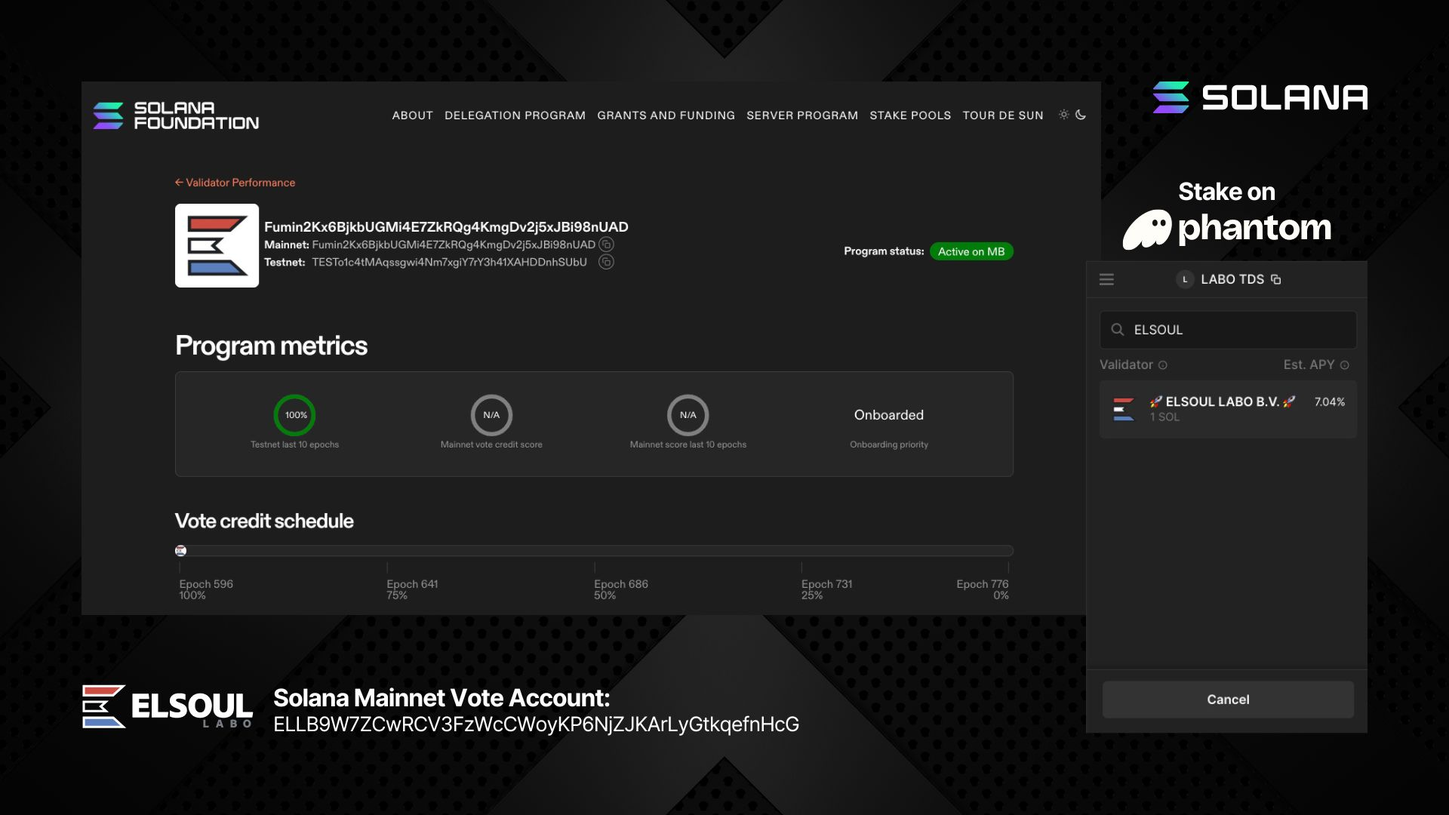
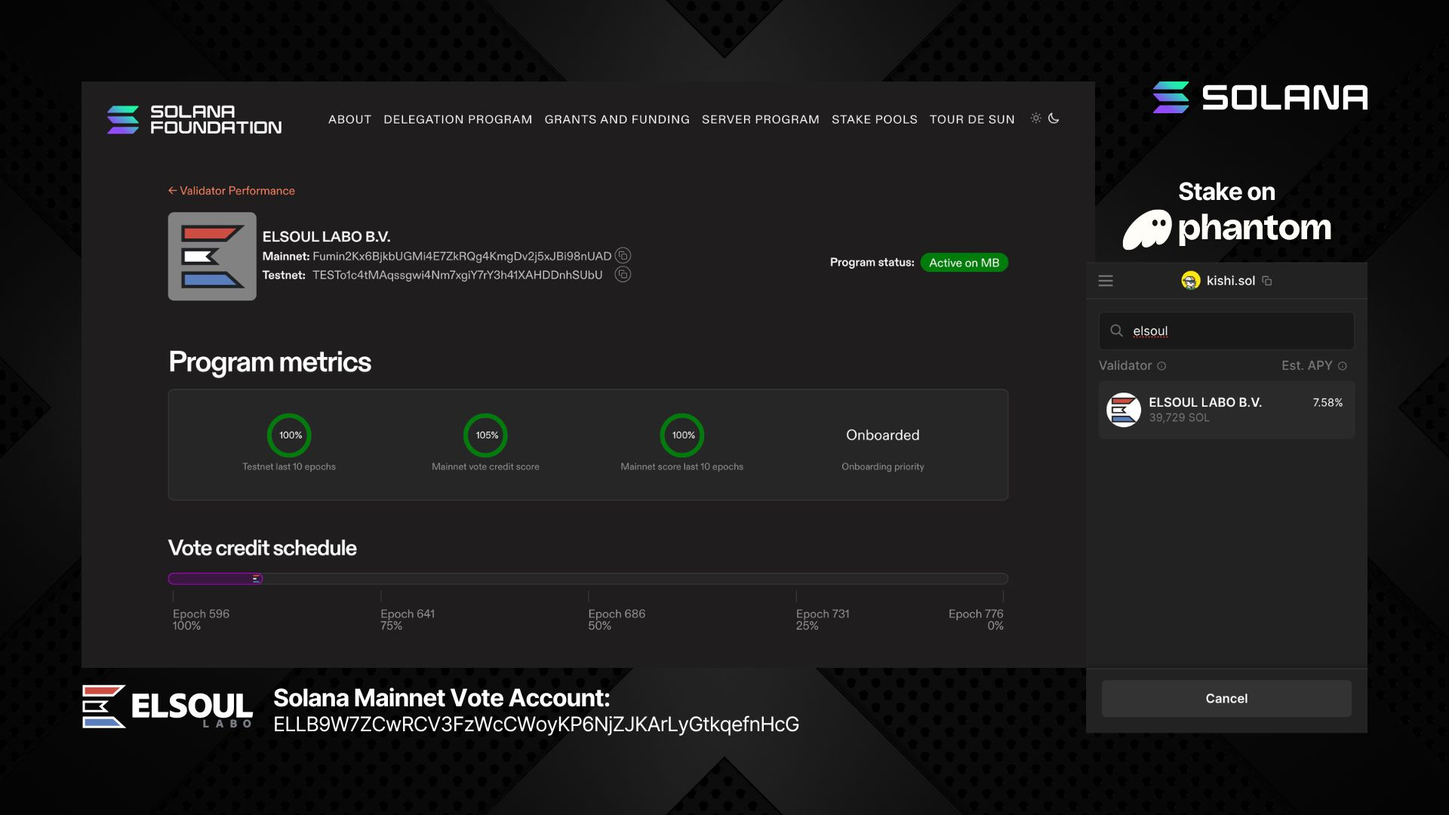
Skeet started the only Solana Data Center in India

diff --git a/website/skeet-doc/src/components/pages/home/HeroRow.tsx b/website/skeet-doc/src/components/pages/home/HeroRow.tsx
@@ -143,7 +143,7 @@ export default function HomeHeroRow() {
                   {
                     name: 'Prisma',
                     logo: prismaLogo,
-                    link: 'https://www.prisma.io/',
+                    link: 'https://www.prisma.io/?via=ELSOULLABO',
                   },
                 ],
                 [

diff --git a/website/skeet-doc/articles/news/ja/2024/05/16/skeet-launched-indias-only-solana-blockchain-data-center.md b/website/skeet-doc/articles/news/ja/2024/05/16/skeet-launched-indias-only-solana-blockchain-data-center.md
@@ -1,0 +1,149 @@
+---
+id: skeet-launched-indias-only-solana-blockchain-data-center
+title: オープンソースプロジェクトSkeet、インドで唯一のSolanaブロックチェーンデータセンターを開設
+category: プレスリリース
+thumbnail: /news/2024/05/16/OpenSourceProjectSkeetLaunchedIndiaOnlySolanaBlockchainDataCenterJA.jpg
+---
+
+ELSOUL LABO B.V.（エルソウルラボ、本社: オランダ・アムステルダム、代表取締役 CEO: 川崎文武）および、同社が設立したオープンソースソフトウェア開発を支援する Web3 NFT カードゲームを運営する Epics DAO は、Solana ブロックチェーンのバリデーター向けオープンソースツール「solv」の開発と運用を通じて、ブロックチェーン技術のイノベーションと持続可能な開発を推進しています。このツールは約 1 年にわたる運用を経てその性能と信頼性を証明し、現在は多くのユーザーにより Solana ブロックチェーンのメインネット及びテストネット上で幅広く利用されています。
+
+同じくエルソウルラボが設立したオープンソースの Skeet 開発チームは、ソフトウェア開発の専門知識をバリデーター運用に活かし、その報酬を必要コストに充てることでオープンソース開発の持続可能性を高めることを目指しており、solv を活用して Solana ブロックチェーンバリデーターを運用してきました。
+
+今回は Skeet 開発チームによる、インド唯一となる Solana ブロックチェーンデータセンター開設について発表させていただきます。
+
+## インド唯一 となる Solana データセンター開設の決断理由と Skeet 開発秘話
+
+![Solana Mainnet Data Centers](/news/2024/05/16/SolanaMainnetDataCenters.jpg)
+
+現在、Solana ブロックチェーンのメインネットバリデーターは世界で約 1,700 台稼働しており、317 のメインネットデータセンターがあります。
+
+参考: https://www.validators.app/data-centers?locale=en&network=mainnet&sort_by=data_center
+
+しかし、2024 年 5 月時点でインドには 1 つも Solana データセンターが存在していませんでした。
+
+Solana データーセンターの世界分布を見てみると、米国やヨーロッパに多くのデータセンターが集中しており、アジア・オセアニア・南米・アフリカ地域にはまだまだデータセンターが少ない状況です。
+
+この原因の一つには、サーバーコストが挙げられます。大規模なデータセンターには多くの冷却コストがかかります。また、データセンターの維持費はロケーションの環境に大きく左右されるため、インドのような気候条件が厳しい地域では、データセンターの運用が難しく高額になりがちです。
+
+このサーバーコストはバリデーター運用収益に直結するため、バリデーター運用の参入障壁となっています。その傾向はとても顕著で、サーバーコストが高くなるほど、その地域のバリデーター数は減っています。
+
+さらに、バリデーターの立ち上げやメンテナンスには高いコストがかかります。特にバリデーターが少ない地域では、適切なマシンスペックの準備や運用の複雑さが増し、初期設定が特に困難になります。
+
+かつてインドにおいて運用されていたごく少数の Solana バリデーター達もそのコストの大きさからすべて撤退してしまっている状況でした。
+
+![Solana Data Center Locations](/news/2024/05/16/SolanaDataCenterLocations.jpg)
+
+Solana ネットワークとしてはもちろん、ブロックチェーン技術の普及と発展のためにも、全世界にデータセンターを分散させることが重要です。
+
+実際にバリデーターノードが近くに存在しない地域のユーザーは、ネットワークの遅延によりユーザー体験が悪化したり、それにより開発が活発にならず、イノベーションの機会損失が起きています。
+
+ところで、エルソウルラボの創業メンバーは 2018 年、インドにてアプリのオフショア開発会社を立ち上げ、多くのインドの IT 技術者と共に多くのプロジェクトに挑戦しました。
+
+インドでは非常に多くの IT 技術者がソフトウェア開発を行っており、非常に多くの開発プロジェクトが存在しています。
+
+開発者の流動性は高く、多くの開発者が次々と色々なプロジェクトに参加することが一般的でした。そのため、インドの IT 技術者は新しい技術に対して非常に積極的であり、新しい技術を学ぶ意欲が高いことが特徴です。
+
+一方で、チームメンバーの認識や開発方法の統一がとても難しいことを課題に感じました。
+
+当時もオープンソースのアプリフレームワークにはとてもお世話になり、開発方法の統一のためにフレームワークのありがたみを身にしみて感じておりました。
+
+しかし、アプリフレームワークを利用する組織にはいくつかの課題がありました。中でも大きな課題はデプロイ(アプリケーションの公開)にありました。
+
+開発環境では動いていたのに本番環境ではエラーが、、、ということや、メンバー間での環境の違いによるエラーが多発し、開発効率が悪化してしまいました。結局開発の統率が難しく、志半ばで撤退を余儀されなくなったことを今でも悔しく思っています。
+
+これはもちろんアプリフレームワークが悪いわけではなく、アプリケーションのデプロイが難しいというそもそもの難題があったためです。
+
+デプロイまでの堅牢な(環境差で何がエラーを起こしているのかわからなくなったりしない、とても安定した)環境一式すべてをフレームワークにする必要を感じ、この悔しい経験を元に撤退後にすぐにサーバーレスフレームワークの研究を開始しました。
+
+そして三作目となるオープンソースサーバーレスフレームワーク Skeet は、国際学会 ENASE 2024 で発表され、多くの参加者から高い評価を受けることができました。
+
+この大事な発見をいただいたインドという地に恩返しをするため、インド唯一となる Solana データセンターを開設することを決断いたしました。
+
+これにより、インドでの Solana ネットワークの普及と発展に貢献し、多くのインドの IT 技術者の方々が新しいイノベーションに挑戦する機会を提供することができ、そこには大きな可能性と価値があると信じております。
+
+実際に私達がインドにてビジネスを開始した 2018 年、インドではすでに Paytm という QR 決済が浸透しており、露店や屋台においても QR 決済を行うことができるようになっていました。日本において現在では普通となっている QR 決済の PayPay も 2018 年 10 月にサービスローンチされ、それも Paytm の技術を元に開発されたものであると言われており、インドの先進技術普及とイノベーションの速さを感じました。
+
+インドにおいて今後ますますブロックチェーンを活用したイノベーションが数多く生まれることを期待しております。
+
+Solana メインネットデータセンター(インド・ムンバイ): https://www.validators.app/data-centers/396982-IN-Mumbai?locale=en&network=mainnet
+
+![Skeet built India's First Solana Data Center](/news/2024/05/16/SkeetLaunchedFirstSolanaDataCenterInIndia.jpg)
+
+Skeet は、SOL をステークしていただけるユーザーの皆様に対しての手数料を「0%」に設定しておりますので、ステーク報酬の APR(年利)は 7.58 % となっております。
+
+Solana バリデーターが非常に少ない地域に設置し後続のバリデーターが参加しやすくするため、そして高いバリデータースコアを狙うため 112 vCPU + 896 GB RAM という高スペックなマシンリソースを使用しており、堅牢な運用体制を構築いたしました。
+
+ハードウェアになにか問題が起きたとしても、オープンソースの solv を活用しているため、すぐに簡単に引っ越しを行うことができます。この新しいインド・ムンバイのデータセンターの状態は常にエルソウルラボにて監視されており、万が一の際にもすぐに対応できる体制を整えております。
+
+ぜひ今後とも私達の活動を応援いただければとても嬉しいです。
+
+Skeet - Solana メインネットバリデーター: https://www.validators.app/validators/LionBN8UQ69Amea77CurDSCnRDVGTMND9oyv74ZteE2?locale=en&network=mainnet
+
+![Skeet Solana Mainnet Validator](/news/2024/05/16/SkeetSolanaMainnetValidator.jpg)
+
+## エルソウルラボ及び Epics DAO について
+
+エルソウルラボ及び Epics DAO のコアチームもオープンソースソフトウェアの開発に積極的に携わっております。
+
+「solv」、「Skeet」という 2 つのオープンソースソフトウェアを開発し、これらのオープンソースプロジェクトを運営しています。
+
+![solv](/news/2024/03/12/solvJA.jpg)
+
+「solv」 は Solana バリデータ及び RPC ノードのセットアップと運用を簡略化するためのオープンソースツールです。
+一般にブロックチェーンバリデータとして報酬を得るためには、適切なスペックのマシンリソースを用意して、ドキュメントに従ってバリデータ用のソフトウェアをインストール・セットアップを完了させ、週に何回かあるアップデート作業を行う必要があります。
+この一連の作業はバリデータ全員が同じ作業をしなければならないなか、サーバー管理者としての専門知識が求められることで、インセンティブを得たいユーザーがいてもその高い参入障壁が問題となっていました。
+
+solv を使えば、たった 3 つのコマンドをコピペするだけで簡単に Solana バリデーターが立ち上がります。オープンソース開発の特性を活かし、アップデートも世界で一人が行えば、あとはそれをダウンロードするだけで完了するようになります。solv ユーザーは、日々のアップデート作業ですらワンコマンドで終了させることができます。
+
+solv 公式ドキュメント: https://solv.epics.dev/
+
+![Skeet](/news/2024/03/12/SkeetV2JA.jpg)
+
+「Skeet」は、TypeScript を使用したオープンソースのサーバーレスアプリ開発ツールであり、インフラ設計や管理の省略、迅速なアプリケーション開発、必要な機能のみを迅速に開発する柔軟性、AI サポートの充実、そして dApps や Web3 アプリの開発に対応するなど、現代的なアプリケーションフレームワークを提供します。
+
+Skeet 公式ドキュメント: https://skeet.dev/
+
+エルソウルラボの Skeet 開発チームによる研究論文「Skeet: Towards a Lightweight Serverless Framework Supporting Modern AI-Driven App Development」が、2024 年 4 月 28 日と 29 日にフランス・Angers で開催された国際ソフトウェアエンジニアリングカンファレンス、ENASE 2024 で発表されました。ジェームス博士が代表として登壇し、その発表は多くの参加者から高い評価を受けました。
+
+ENASE 2024: https://enase.scitevents.org/
+
+![ENASE 2024 - Skeet](/news/2024/05/10/SkeetENASE2024ResearchPaperPublished.jpg)
+
+![ENASE 2024 - Skeet Dev](/news/2024/05/02/ENASEelsoulTeam.jpg)
+
+この研究は、現代の AI 駆動型アプリケーション開発をサポートするための軽量なサーバーレスフレームワークを提案しており、学会のプロシーディングに掲載・出版されました。また、Google Scholar や Scopus をはじめとする複数の主要な学術文献検索サービスにもインデックスされ、広く研究コミュニティに対して利用可能となっています。
+
+研究論文「Skeet: Towards a Lightweight Serverless Framework Supporting Modern AI-Driven App Development」 - SciTePress: https://www.scitepress.org/PublicationsDetail.aspx?ID=Rza3TGE30Xw=&t=1
+
+![ENASE 2024 - Skeet paper](/news/2024/04/24/ENASE2024AfterTheConference.jpg)
+
+今後も様々なイノベーションを促進するべく、積極的にオープンソースソフトウェアの開発に携わり、そしてオープンソースプロジェクトの開発環境全体を応援してまいります。
+
+引き続き応援の程、何卒よろしくお願いいたします。
+
+**■ 会社概要**
+
+- 社名: ELSOUL LABO B.V.
+- 代表取締役: 川崎 文武、岸 正太
+- 事業内容: ソフトウェア研究開発 (AI・クラウド・ブロックチェーン)
+- 設立: 2020 年 9 月
+- 所在地: Weteringschans 165, 1017XD Amsterdam, Netherlands
+- 認定: オランダ政府より WBSO(先端研究開発) 、Google Cloud Build パートナー 、国際学術会議 ENASE2024 研究論文採択
+- 企業 URL: https://labo.elsoul.nl
+- 公式 Discord: https://discord.gg/H2HeqRq54J
+- プレスキット：https://labo.elsoul.nl/ja/press-kits
+
+**■ DAO 概要**
+
+- DAO 名: Epics DAO
+- Founders: 川崎 文武、岸 正太
+- 事業内容: 社会貢献型ブロックチェーンゲームの研究開発・運営
+- 設立: 2022 年 6 月
+- 受賞: Solana Summer Camp Hackathon 2022 5 位
+- DAO URL: https://epics.dev
+- Twitter URL: https://twitter.com/EpicsDAO2
+- 公式 Discord: https://discord.gg/GmHYfyRamx
+
+![Epics Platform Buidlers Guild](/news/2024/04/19/AboutOpenSourceProblemJA.jpg)
+
+※ 本記事は投資助言などを目的としたものではありません。また、本記事に記載された情報は、執筆時点のものです。最新の情報をご確認ください。常に NFA / DYOR でお願いいたします。

diff --git a/website/skeet-doc/articles/news/en/2024/05/16/skeet-launched-indias-only-solana-blockchain-data-center.md b/website/skeet-doc/articles/news/en/2024/05/16/skeet-launched-indias-only-solana-blockchain-data-center.md
@@ -1,0 +1,141 @@
+---
+id: skeet-launched-indias-only-solana-blockchain-data-center
+title: Open-Source Project Skeet Launches India's Only Solana Blockchain Data Center
+category: Press Release
+thumbnail: /news/2024/05/16/OpenSourceProjectSkeetLaunchedIndiaOnlySolanaBlockchainDataCenterEN.jpg
+---
+
+ELSOUL LABO B.V. (Headquarters: Amsterdam, Netherlands, CEO: Fumitake Kawasaki), together with Epics DAO, which it established to operate a Web3 NFT card game supporting open-source software development, is driving innovation and sustainable development in blockchain technology through the development and operation of 'solv', an open-source tool for Solana blockchain validators. This tool has proven its performance and reliability over approximately one year of operation and is now extensively used by many users on both the mainnet and testnet of the Solana blockchain.
+
+Similarly, the Skeet development team, also established by ELSOUL LABO, has been leveraging its software development expertise for validator operations, aiming to enhance the sustainability of open-source development by allocating rewards to cover necessary costs and utilizing 'solv' in operating Solana blockchain validators.
+
+We are pleased to announce the establishment of the only Solana blockchain data center in India by the Skeet development team.
+
+## The Decision to Establish India’s Only Solana Data Center and the Inside Story of Skeet Development
+
+![Solana Mainnet Data Centers](/news/2024/05/16/SolanaMainnetDataCenters.jpg)
+
+Currently, there are about 1,700 Solana mainnet validators operating worldwide, distributed across 317 mainnet data centers.
+
+Reference: https://www.validators.app/data-centers?locale=en&network=mainnet&sort_by=data_center
+
+However, as of May 2024, there were no Solana data centers in India.
+
+Looking at the global distribution of Solana data centers, many are concentrated in the USA and Europe, while Asia, Oceania, South America, and Africa still have far fewer data centers.
+
+One reason for this is server costs. Large data centers incur significant cooling costs. Additionally, the maintenance expenses of data centers are heavily influenced by the location's environmental conditions, making operations in regions with harsh climates like India difficult and costly.
+
+These server costs directly impact validator operational profits, creating a barrier to entry. This trend is pronounced; the higher the server costs, the fewer the validators in that region.
+
+Furthermore, launching and maintaining validators is costly. Especially in regions with few validators, preparing the right machine specs and managing operations becomes more complex, and initial setups are particularly challenging.
+
+At one point, the few Solana validators operating in India withdrew due to these high costs.
+
+![Solana Data Center Locations](/news/2024/05/16/SolanaDataCenterLocations.jpg)
+
+For the Solana network, and indeed for the proliferation and development of blockchain technology, it's crucial to distribute data centers globally.
+
+Users in regions without nearby validator nodes experience degraded network performance, which stifles development and results in lost opportunities for innovation.
+
+In 2018, the founding members of ELSOUL LABO set up an offshore app development company in India, working on numerous projects alongside many Indian IT professionals.
+
+India boasts a vast number of IT technicians and numerous development projects.
+
+The fluidity of developers, who typically move from project to project, is high. Therefore, Indian IT technicians are very proactive about new technologies and eager to learn.
+
+However, unifying team perceptions and development methods was challenging.
+
+We relied heavily on open-source application frameworks to standardize development methods and deeply appreciated their value.
+
+However, organizations using application frameworks faced several challenges, especially in deployment.
+
+Issues that worked in the development environment but failed in production and errors due to differences in environment among team members degraded development efficiency. Ultimately, difficulty in unifying development led us to withdraw, which was regrettable.
+
+This was not a flaw in the application frameworks themselves but an inherent difficulty in deploying applications.
+
+We felt the need to integrate a robust (environmentally stable without unexpected errors) environment into the framework entirely, which led us to start researching serverless frameworks immediately after withdrawing.
+
+Our third open-source serverless framework, Skeet, was presented at the international conference ENASE 2024 and received high acclaim from many participants.
+
+To give back to India, where we made this significant discovery, we decided to establish the only Solana data center in the country.
+
+This will contribute to the proliferation and development of the Solana network in India, providing many Indian IT technicians with opportunities to tackle new innovations where we see significant potential and value.
+
+In fact, when we began our business in India in 2018, QR payment systems like Paytm were already widespread, enabling transactions at street vendors and food stalls. PayPay, which has become commonplace in Japan today, was launched in October 2018 and developed based on Paytm's technology, showcasing the rapid pace of technological adoption and innovation in India.
+
+We look forward to numerous blockchain-based innovations emerging in India in the future.
+
+Solana Mainnet Data Center (India, Mumbai): https://www.validators.app/data-centers/396982-IN-Mumbai?locale=en&network=mainnet
+
+![Skeet built India's First Solana Data Center](/news/2024/05/16/SkeetLaunchedFirstSolanaDataCenterInIndia.jpg)
+
+Skeet has set a 0% fee for users who stake SOL, with an annual percentage rate (APR) of rewards at 7.58%.
+
+To facilitate the participation of subsequent validators in regions with very few Solana validators and to aim for high validator scores, we use high-spec machine resources of 112 vCPUs + 896 GB RAM and have established a robust operating system.
+
+Even if there is a problem with the hardware, we can quickly and easily relocate using the open-source 'solv'. The status of this new data center in Mumbai, India, is constantly monitored by ELSOUL LABO, ensuring rapid fixing in any emergency.
+
+We would be very pleased if you continue to support our activities.
+
+Skeet - Solana Mainnet Validator: https://www.validators.app/validators/LionBN8UQ69Amea77CurDSCnRDVGTMND9oyv74ZteE2?locale=en&network=mainnet
+
+![Skeet Solana Mainnet Validator](/news/2024/05/16/SkeetSolanaMainnetValidator.jpg)
+
+## ELSOUL LABO and Epics DAO
+
+ELSOUL LABO and Epics DAO's core teams are actively involved in open-source software development.
+
+They operate two open-source software projects, "solv" and "Skeet."
+
+![solv](/news/2024/03/12/solvEN.jpg)
+
+"solv" is an open-source tool simplifying the setup and operation of Solana validators and RPC nodes. To earn rewards as a blockchain validator, machine resources of proper specifications are needed, and validator software installation and setup should be completed per documentation, followed by several updates each week.
+
+With "solv," Solana validators can be easily launched with just three commands. Updates require only one command, utilizing the open-source nature so that a single person worldwide can manage the update, and others can download it. solv documentation: https://solv.epics.dev/
+
+![Skeet](/news/2024/03/12/SkeetV2EN.jpg)
+
+"Skeet" is an open-source, serverless app development tool using TypeScript, offering a modern application framework for infrastructure management, rapid app development, AI support, and dApp/Web3 development.
+
+Skeet documentation: https://skeet.dev/
+
+The Skeet development team's paper, "Skeet: Towards a Lightweight Serverless Framework Supporting Modern AI-Driven App Development," was presented at ENASE 2024, an international software engineering conference held in Angers, France, on April 28-29, 2024. Dr. James represented the team and received high acclaim for his presentation.
+
+ENASE 2024: https://enase.scitevents.org/
+
+![ENASE 2024 - Skeet](/news/2024/05/10/SkeetENASE2024ResearchPaperPublished.jpg)
+
+![ENASE 2024 - Skeet Dev](/news/2024/05/02/ENASEelsoulTeam.jpg)
+
+This study proposes a lightweight serverless framework for modern AI-driven application development. The research was published in the conference proceedings and indexed in Google Scholar, Scopus, and other major databases, making it widely accessible to the research community.
+
+「Skeet: Towards a Lightweight Serverless Framework Supporting Modern AI-Driven App Development」 - SciTePress: https://www.scitepress.org/PublicationsDetail.aspx?ID=Rza3TGE30Xw=&t=1
+
+![ENASE 2024 - Skeet paper](/news/2024/04/24/ENASE2024AfterTheConference.jpg)
+
+We will continue promoting innovation, engaging in open-source software development, and supporting the overall development environment of open-source projects.
+
+**Company Overview**
+
+- Name: ELSOUL LABO B.V.
+- CEOs: Fumitake Kawasaki, Shota Kishi
+- Business: Software research and development (AI, cloud, blockchain)
+- Founded: September 2020
+- Location: Weteringschans 165, 1017XD Amsterdam, Netherlands
+- Accreditations: WBSO (Advanced R&D) from the Dutch government, Google Cloud Build partner, ENASE2024 paper selection
+- URL: https://labo.elsoul.nl
+- Discord: https://discord.gg/H2HeqRq54J
+- Press Kit: https://labo.elsoul.nl/en/press-kits
+
+**DAO Overview**
+
+- DAO Name: Epics DAO
+- Founders: Fumitake Kawasaki, Shota Kishi
+- Business: Research, development, and operation of blockchain games for social impact
+- Founded: June 2022
+- Award: 5th place, Solana Summer Camp Hackathon 2022
+- URL: https://epics.dev
+- Twitter: https://twitter.com/EpicsDAO2
+- Discord: https://discord.gg/GmHYfyRamx
+
+※ This article is not intended for investment advice. The information contained in this article is based on the situation at the time of writing. Please check for the most current information. Always NFA/DYOR.

diff --git a/website/skeet-doc/articles/news/en/2023/08/01/skeet-nextjs-graphql-template-released.md b/website/skeet-doc/articles/news/en/2023/08/01/skeet-nextjs-graphql-template-released.md
@@ -32,7 +32,7 @@ With this update, you can now leverage the tools Prisma and Apollo to visualize 
 
 ![Skeet Prisma Studio](/news/2023/08/01/prisma-studio.jpg)
 
-Prisma (https://www.prisma.io/) is an ORM that can easily handle SQL (relational database) with TypeScript and JavaScript. Skeet uses Prisma to provide a simple and flexible way to define your database schema and auto-generated migrations and provides TypeScript types to help with development. In addition, Prisma Studio makes it possible to operate the database with a GUI, allowing developers to easily operate and check data.
+Prisma (https://www.prisma.io/?via=ELSOULLABO) is an ORM that can easily handle SQL (relational database) with TypeScript and JavaScript. Skeet uses Prisma to provide a simple and flexible way to define your database schema and auto-generated migrations and provides TypeScript types to help with development. In addition, Prisma Studio makes it possible to operate the database with a GUI, allowing developers to easily operate and check data.
 
 ![Skeet Apollo Console](/news/2023/08/01/apollo-console.png)
 

diff --git a/website/skeet-doc/articles/v1doc/en/skeet-graphql/basic-architecture.md b/website/skeet-doc/articles/v1doc/en/skeet-graphql/basic-architecture.md
@@ -21,7 +21,7 @@ The basic structure of the Skeet Framework GraphQL backend is as follows.
 | Domains                          | Cloud DNS                   |
 | Security                         | Cloud Armor                 |
 
-- [Prisma](https://prisma.io) Support for managing RDBMS (Relational Database Management System)
+- [Prisma](https://www.prisma.io/?via=ELSOULLABO) Support for managing RDBMS (Relational Database Management System)
 - [GitHub Actions](https://github.com/features/actions) Support CI/CD
 - [Firebase Functions](https://firebase.google.com/docs/functions) Supports serverless backend
 - [Firebase Emulator](https://firebase.google.com/docs/emulator-suite) Support local development
@@ -70,7 +70,7 @@ Skeet GraphQL uses the following packages.
 
 - [GraphQL](https://graphql.org/)
 - [Apollo Server](https://www.apollographql.com/)
-- [Prisma](https://www.prisma.io/)
+- [Prisma](https://www.prisma.io/?via=ELSOULLABO)
 - [Nexus](https://nexusjs.org/)
 - [GraphQL Shield](https://the-guild.dev/graphql/shield)
 

diff --git a/templates/base-template/README.md b/templates/base-template/README.md
@@ -249,7 +249,7 @@ Commands:
 - [Firebase Authentication - Auth](https://firebase.google.com/docs/auth)
 - [Cloud SQL - Relational Database](https://cloud.google.com/sql)
 - [Cloud Load Balancing - Routing](https://cloud.google.com/load-balancing)
-- [Prisma - ORM](https://www.prisma.io/)
+- [Prisma - ORM](https://www.prisma.io/?via=ELSOULLABO)
 - [TypeScript - TypeCheck](https://www.typescriptlang.org/)
 - [ESLint - Linter](https://eslint.org/)
 - [Prettier - Formatter](https://prettier.io/)

diff --git a/templates/skeet-func-template/README.md b/templates/skeet-func-template/README.md
@@ -249,7 +249,7 @@ Commands:
 - [Firebase Authentication - Auth](https://firebase.google.com/docs/auth)
 - [Cloud SQL - Relational Database](https://cloud.google.com/sql)
 - [Cloud Load Balancing - Routing](https://cloud.google.com/load-balancing)
-- [Prisma - ORM](https://www.prisma.io/)
+- [Prisma - ORM](https://www.prisma.io/?via=ELSOULLABO)
 - [TypeScript - TypeCheck](https://www.typescriptlang.org/)
 - [ESLint - Linter](https://eslint.org/)
 - [Prettier - Formatter](https://prettier.io/)

diff --git a/README.md b/README.md
@@ -237,7 +237,7 @@ Commands:
 - [Firebase Authentication - Auth](https://firebase.google.com/docs/auth)
 - [Cloud SQL - Relational Database](https://cloud.google.com/sql)
 - [Cloud Load Balancing - Routing](https://cloud.google.com/load-balancing)
-- [Prisma - ORM](https://www.prisma.io/)
+- [Prisma - ORM](https://www.prisma.io/?via=ELSOULLABO)
 - [TypeScript - TypeCheck](https://www.typescriptlang.org/)
 - [Vitest - Test](https://vitest.dev/)
 - [ESLint - Linter](https://eslint.org/)

diff --git a/packages/cli/README.md b/packages/cli/README.md
@@ -244,7 +244,7 @@ Commands:
 - [Firebase Authentication - Auth](https://firebase.google.com/docs/auth)
 - [Cloud SQL - Relational Database](https://cloud.google.com/sql)
 - [Cloud Load Balancing - Routing](https://cloud.google.com/load-balancing)
-- [Prisma - ORM](https://www.prisma.io/)
+- [Prisma - ORM](https://www.prisma.io/?via=ELSOULLABO)
 - [TypeScript - TypeCheck](https://www.typescriptlang.org/)
 - [Vitest - Test](https://vitest.dev/)
 - [ESLint - Linter](https://eslint.org/)

diff --git a/website/skeet-doc/articles/v1doc/en/skeet-graphql/tutorial.md b/website/skeet-doc/articles/v1doc/en/skeet-graphql/tutorial.md
@@ -53,7 +53,7 @@ For RDBMS, we use PostgreSQL or MySQL. For ORM, we use Prisma.
 
 - [PostgreSQL](https://www.postgresql.org/)
 - [MySQL](https://www.mysql.com/)
-- [Prisma](https://www.prisma.io/)## Installation of Skeet CLI
+- [Prisma](https://www.prisma.io/?via=ELSOULLABO)## Installation of Skeet CLI
 
 Skeet CLI is a command-line tool for efficiently using the Skeet framework. You can install it with the following command.
 
